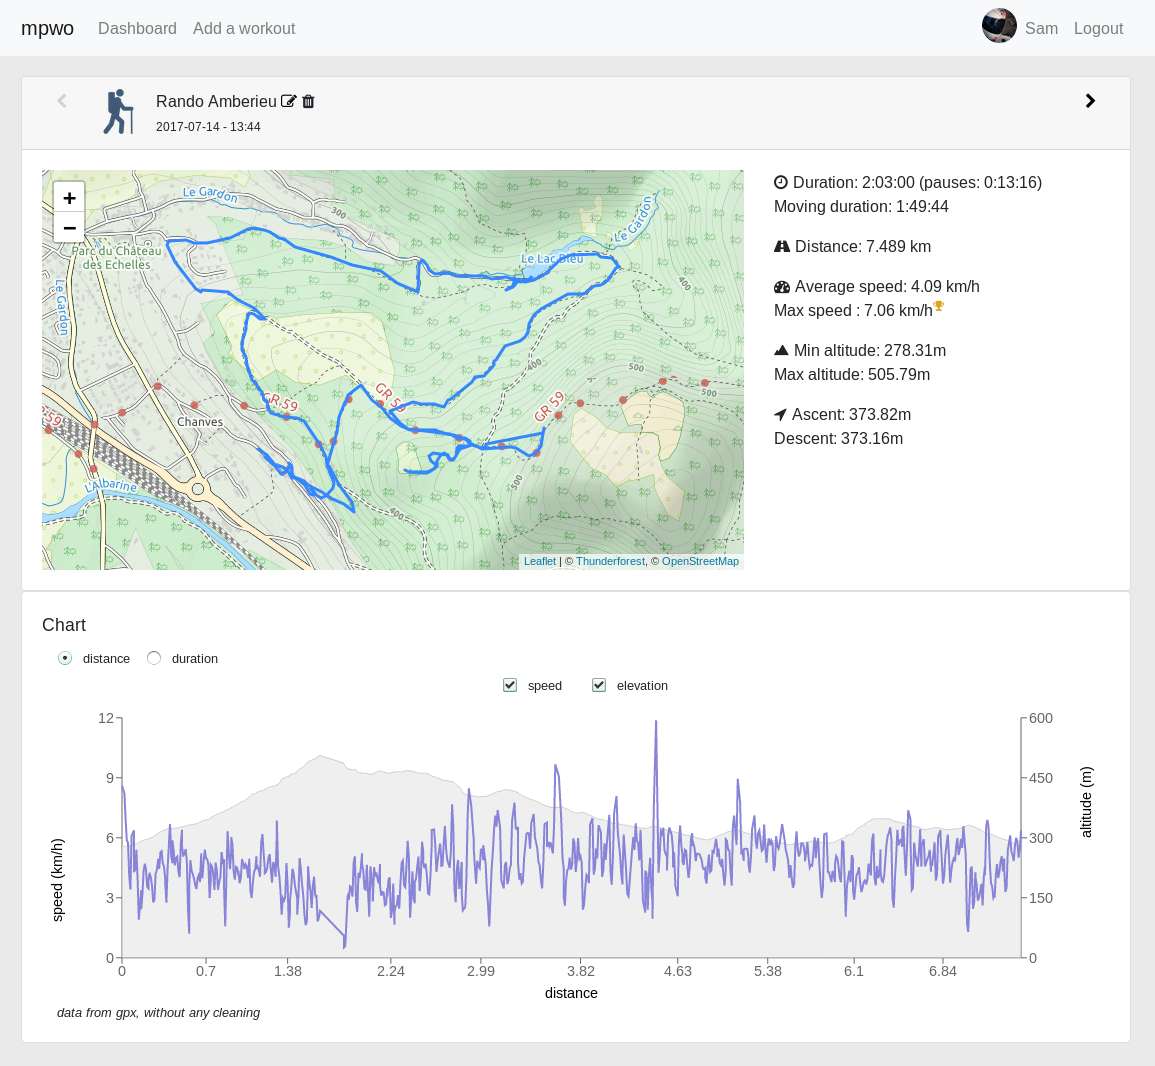
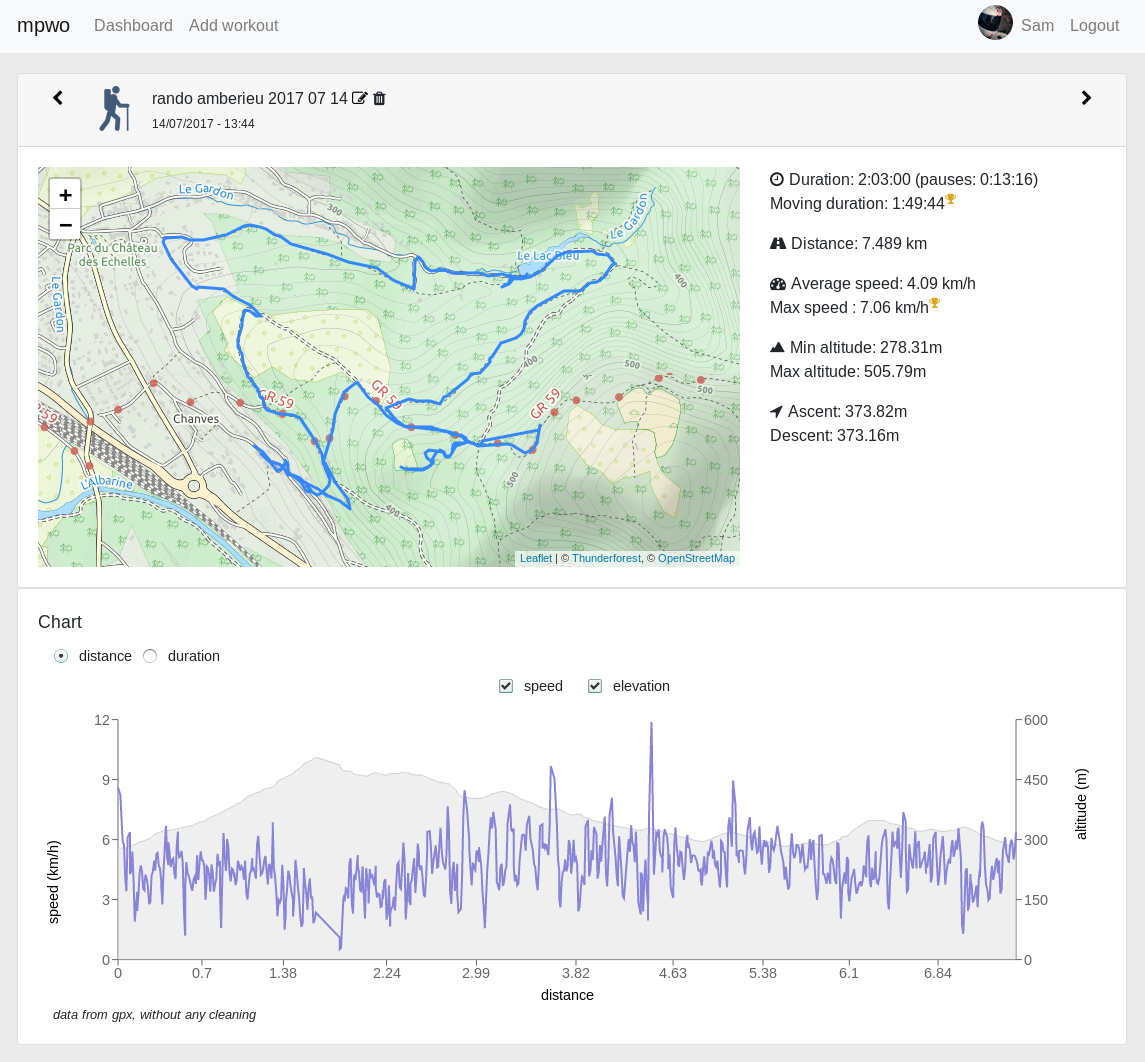
'mpwo' renamed to 'FitTrackee'

diff --git a/README.md b/README.md
@@ -1,4 +1,4 @@
-# mpwo
+# FitTrackee
 **A simple self-hosted workout/activity tracker.**  
 
 [![Python Version](https://img.shields.io/badge/python-3.6-brightgreen.svg)](https://python.org)
@@ -16,8 +16,6 @@ Examples (for Android):
 * [Runner Up](https://github.com/jonasoreland/runnerup) (GPL v3)  
 * [ForRunners](https://github.com/brvier/ForRunners)  (GPL v3)  
 * [AlpineQuest](https://www.alpinequest.net/) (Proprietary, [exodus privay report](https://reports.exodus-privacy.eu.org/reports/2975/))  
-...  
-
 
 Maps are displayed using [Open Street Map](https://www.openstreetmap.org).
 
